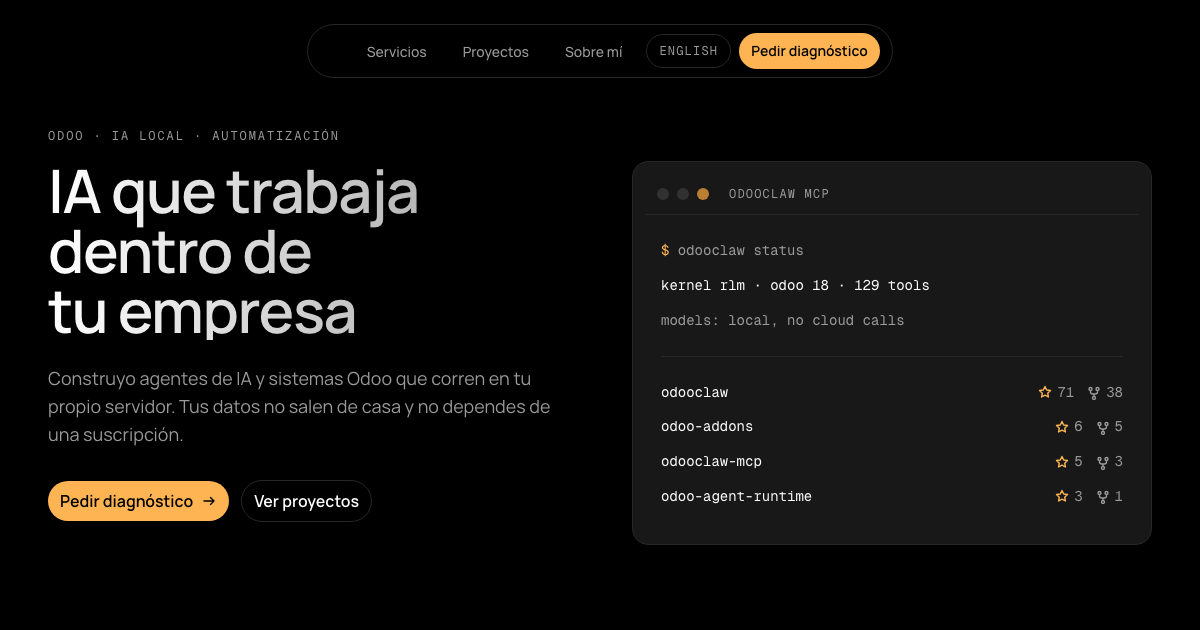
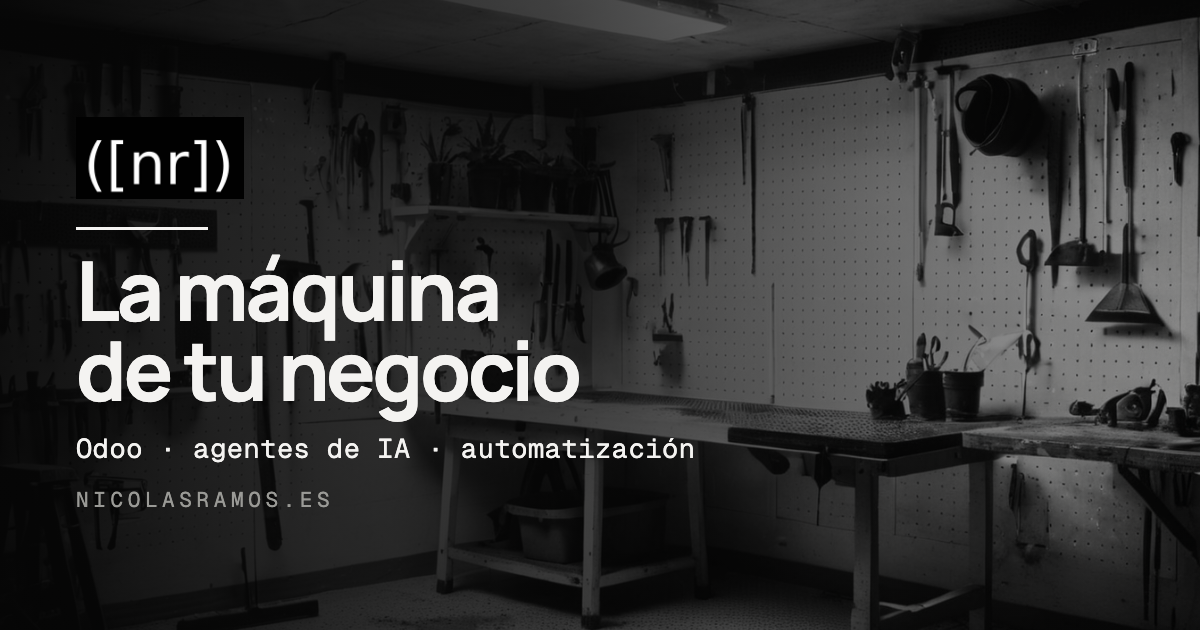
refactor(theme): go strictly monochrome
The brand is black and white: the amber accent is gone and replaced by
paper white, with grey carrying the secondary tier. Links can no longer
signal by hue, so they underline on hover/focus instead.

- tokens: accent -> #ffffff, accent-dim -> #8f8f8b, warm -> #101010
- buttons: bg-accent/hover:bg-ink would have gone black-on-black, now hover dims to white/80
- header: real ([nr]) mark instead of a text placeholder
- about: monochrome portrait card (generated on the audiovisual PC, denoised + graded)
- assets: monochrome favicon and OG image built from the generated workshop still
- remove the amber hero gradient leftovers and the unused HomeBody section

diff --git a/src/styles/global.css b/src/styles/global.css
@@ -7,17 +7,18 @@
   --font-mono: "Geist Mono Variable", ui-monospace, monospace;
 
   /* Dark surfaces restricted to the approved palette */
+  /* Strict monochrome: no hue anywhere. Accent is paper white, dim accent is grey. */
   --color-base: #000000;
-  --color-panel: #181818;
-  --color-raised: #1f1f1f;
-  --color-warm: #131209;
+  --color-panel: #141414;
+  --color-raised: #1c1c1c;
+  --color-warm: #101010;
   --color-line: #272727;
   --color-line-strong: #313131;
 
   --color-ink: #ffffff;
   --color-muted: #9b9b9b;
-  --color-accent: #ffb454;
-  --color-accent-dim: #b97f33;
+  --color-accent: #ffffff;
+  --color-accent-dim: #8f8f8b;
 
   --ease-fluid: cubic-bezier(0.32, 0.72, 0, 1);
 }
@@ -53,6 +54,15 @@
   ::selection {
     background-color: var(--color-accent);
     color: #000000;
+  }
+
+  /* In a monochrome system the accent can no longer signal links by hue, so links
+     underline on hover/focus instead of changing colour. */
+  a.text-accent:hover,
+  a.text-accent:focus-visible {
+    text-decoration: underline;
+    text-underline-offset: 4px;
+    text-decoration-thickness: 1px;
   }
 
   :focus-visible {
